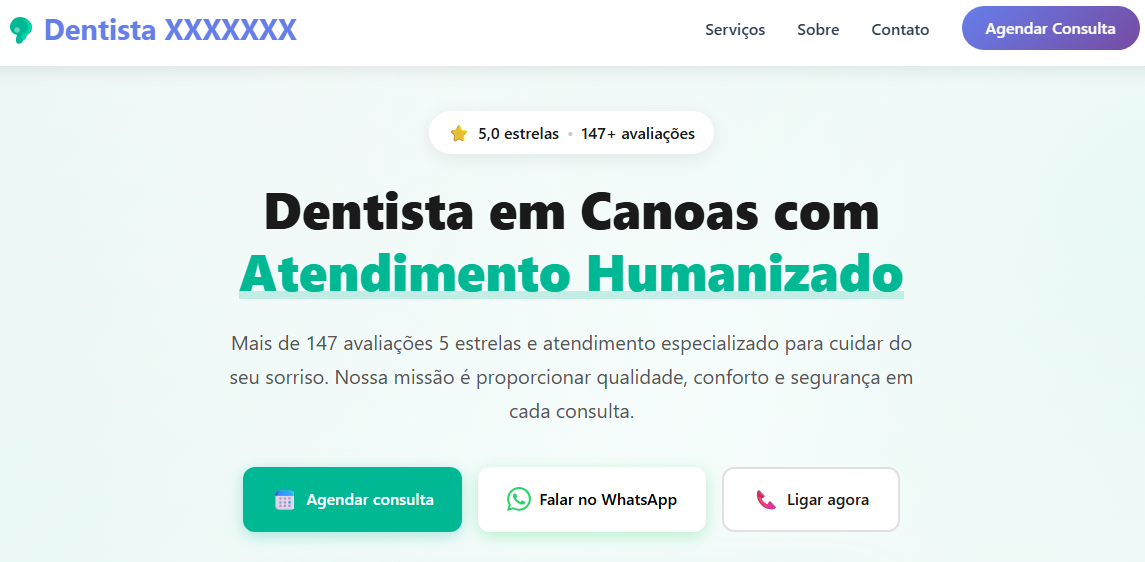
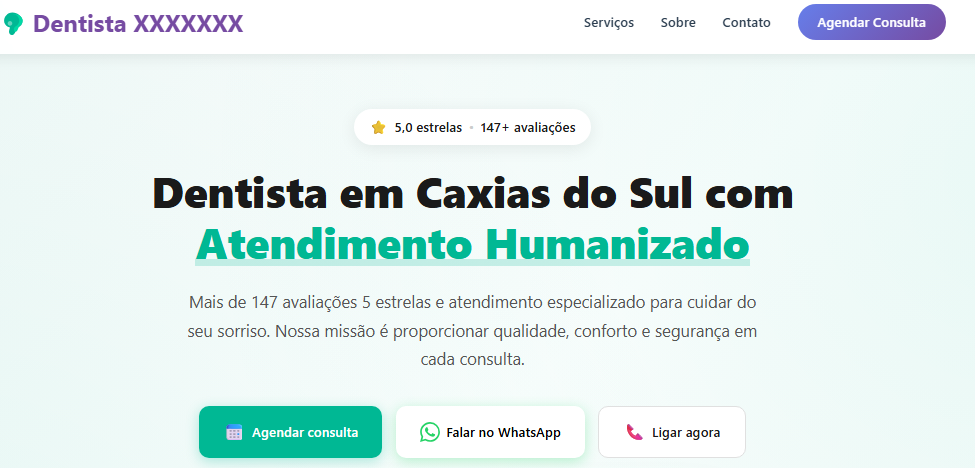
update hero section

diff --git a/index.html b/index.html
@@ -5,7 +5,7 @@
     <link rel="icon" type="image/svg+xml" href="/vite.svg" />
     <meta name="viewport" content="width=device-width, initial-scale=1.0" />
     
-   <meta property="og:title" content="Clínica odontológica - Dentista em Canoas">
+   <meta property="og:title" content="Clínica odontológica - Dentista em Caxias do Sul">
    <meta property="og:description" content="Clínica odontológica especializada em implantes e estética.">
    <meta property="og:image" content="https://jmbrsxx.github.io/dentist-landing-page/image.png">
    <meta property="og:url" content="https://jmbrsxx.github.io/dentist-landing-page/">
@@ -13,10 +13,10 @@
 
     <!-- Twitter -->
     <meta property="twitter:card" content="summary_large_image" />
-    <meta property="twitter:title" content="Clínica odontológica - Dentista em Canoas" />
-    <meta property="twitter:description" content="Clínica odontológica com atendimento humanizado em Canoas. Agende sua consulta!" />
+    <meta property="twitter:title" content="Clínica odontológica - Dentista em Caxias do Sul" />
+    <meta property="twitter:description" content="Clínica odontológica com atendimento humanizado em Caxias do Sul. Agende sua consulta!" />
     
-   <meta property="og:title" content="Clínica odontológica - Dentista em Canoas">
+   <meta property="og:title" content="Clínica odontológica - Dentista em Caxias do Sul">
   <meta property="og:description" content="Clínica odontológica especializada em implantes, estética dental e atendimento de qualidade.">
   <meta property="og:image" content="https://raw.githubusercontent.com/jmbrsxx/dentist-landing-page/master/public/images/image.png">
   <meta property="og:url" content="https://jmbrsxx.github.io/dentist-landing-page/">
@@ -35,12 +35,12 @@
     {
       "@context": "https://schema.org",
       "@type": "Dentist",
-      "name": "Canoas",
-      "description": "Clínica odontológica com atendimento humanizado em Canoas",
+      "name": "Caxias do Sul",
+      "description": "Clínica odontológica com atendimento humanizado em Caxias do Sul",
       "address": {
         "@type": "PostalAddress",
         "streetAddress": "R. Quinze de Janeiro, 373 - Sala 604",
-        "addressLocality": "Canoas",
+        "addressLocality": "Caxias do SUl",
         "addressRegion": "RS",
         "addressCountry": "BR"
       },

diff --git a/src/components/Footer.jsx b/src/components/Footer.jsx
@@ -8,11 +8,11 @@ const Footer = () => {
         <div className="footer-brand">
           <h3 className="footer-logo">Clínica XXXXXXXX</h3>
           <p className="footer-tagline">
-            Sua clínica de confiança para cuidar do seu sorriso em Canoas.
+            Sua clínica de confiança para cuidar do seu sorriso em Caxias do Sul.
           </p>
           <div className="footer-contact">
             <p>📍 R. XXXXXXXXXXXX</p>
-            <p>Centro, Canoas - RS</p>
+            <p>Caxias do Sul - RS</p>
             <p>📞 (51) XXXXXXXXX</p>
           </div>
         </div>

diff --git a/src/components/Hero.jsx b/src/components/Hero.jsx
@@ -13,7 +13,7 @@ const Hero = () => {
           <span>147+ avaliações</span>
         </div>
         <h1 className="hero-title">
-          Dentista em Canoas com <span className="highlight">Atendimento Humanizado</span>
+          Dentista em Caxias do Sul com <span className="highlight">Atendimento Humanizado</span>
         </h1>
         <p className="hero-subtitle">
           Mais de 147 avaliações 5 estrelas e atendimento especializado para cuidar do seu sorriso.

diff --git a/src/components/Contact.jsx b/src/components/Contact.jsx
@@ -24,7 +24,7 @@ const Contact = () => {
               <span className="info-icon">📍</span>
               <div>
                 <h4>Endereço</h4>
-                <p>XXXXXXXXXXXXXXXXXX<br />Centro, Canoas - RS</p>
+                <p>XXXXXXXXXXXXXXXXXX<br />Caxias do Sul - RS</p>
               </div>
             </div>
             <div className="info-item">
